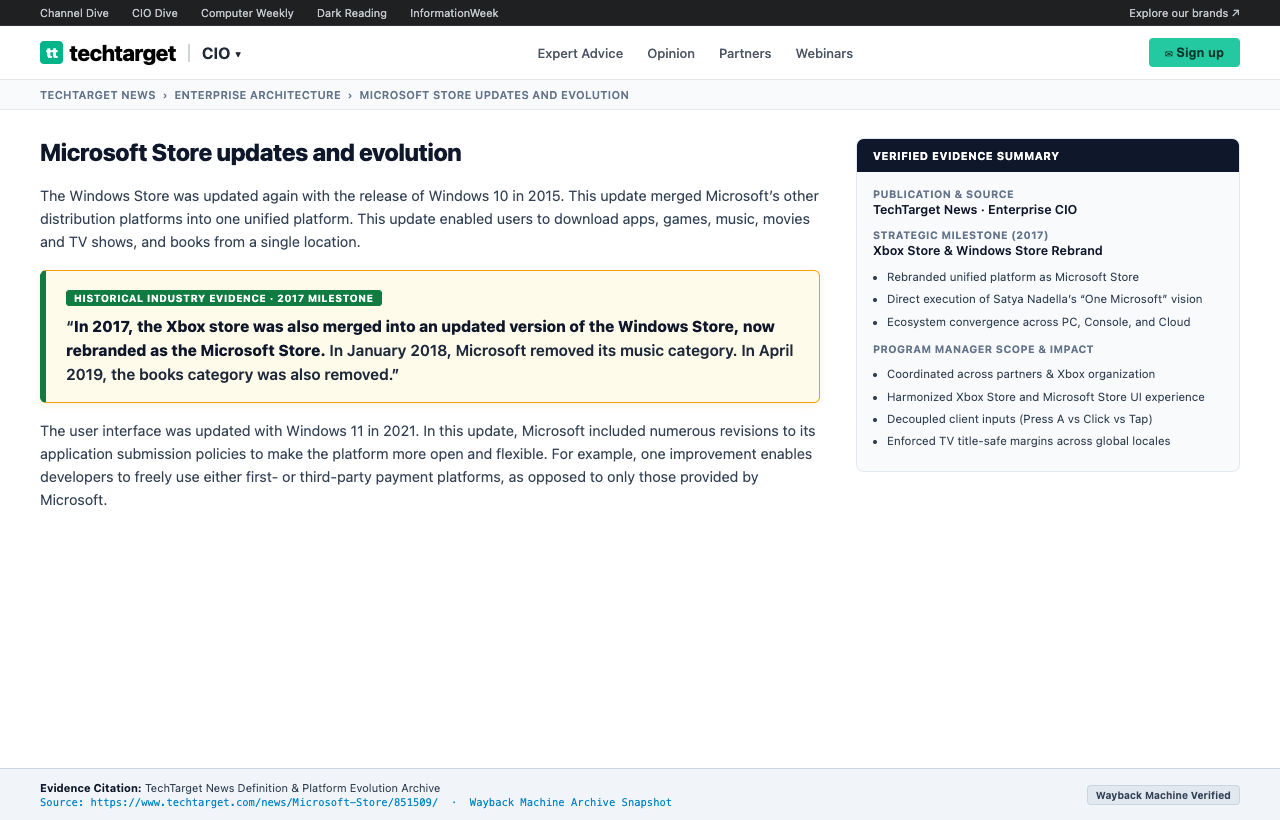
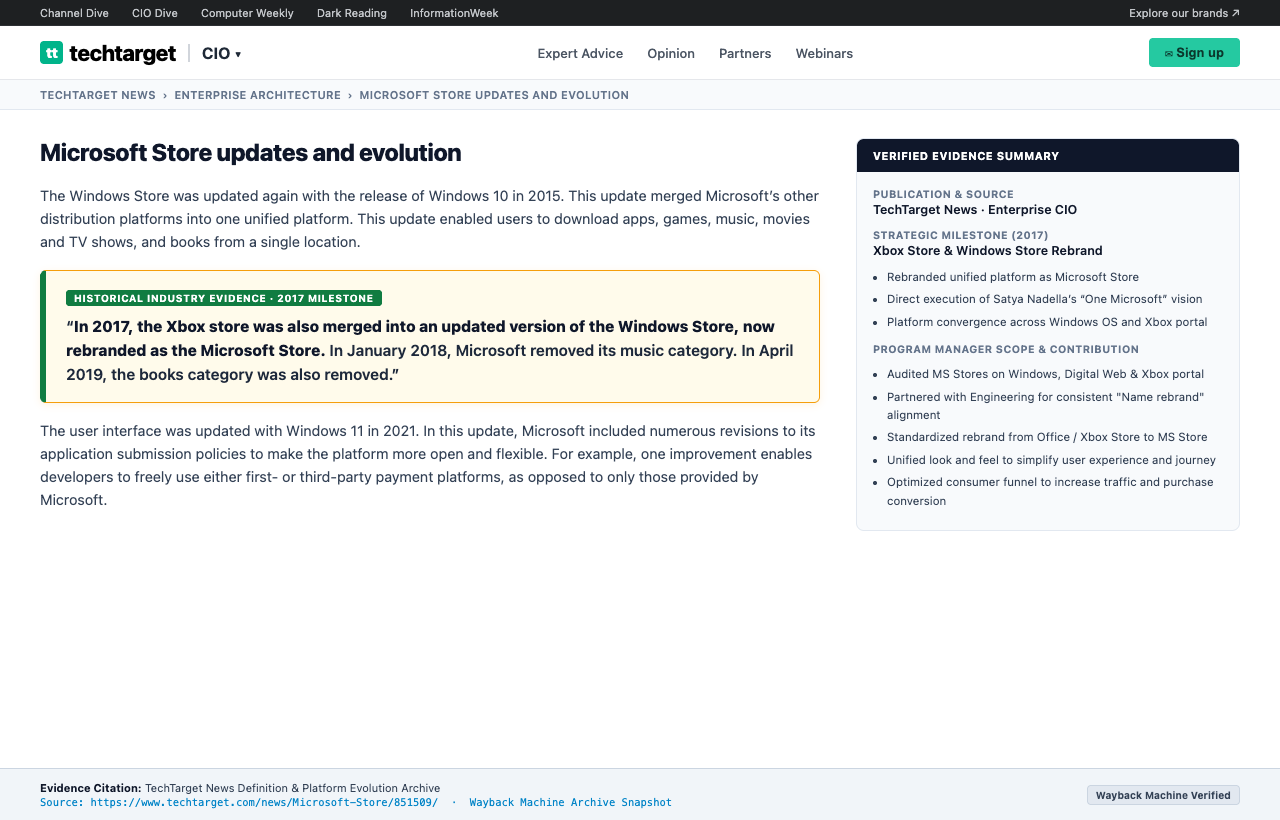
fix(career): Align Section 8 copy and evidence with verified cross-platform audit and name rebrand scope

Changed region(s): [[0.6875, 0.3659, 0.9375, 0.6402]]

diff --git a/frontend/src/data/career/en.js b/frontend/src/data/career/en.js
@@ -1910,7 +1910,7 @@ export const timelineItems = [
         linkLabel: 'Microsoft Store Retail Transformation Announcement',
       },
       {
-        text: 'One Microsoft Ecosystem Alignment & Xbox Store Rebrand: Aligned with Satya Nadella’s "One Microsoft" vision, coordinated as Program Manager across partner teams and the Xbox organization to align the Xbox Store experience and rebrand to the unified Microsoft Store. Governed cross-platform experience parity, decoupled input mechanics (resolving dynamically to console controller, PC mouse, or touch prompts across devices), and enforced TV title-safe layout margins across 38 global markets.',
+        text: 'One Microsoft Ecosystem Alignment & Xbox Store Rebrand: Aligned with Satya Nadella’s "One Microsoft" vision, coordinated as Program Manager across partner teams and the Xbox organization to align the Xbox Store experience and rebrand to the unified Microsoft Store. Conducted a cross-surface audit of Microsoft Stores across Windows OS, digital web, and the Xbox portal, partnering with Engineering to ensure consistent name rebrand alignment (from Office and Xbox Store to Microsoft Store) and maintain a unified look and feel that simplified the user experience, drove adoption, and optimized the consumer purchase journey.',
         url: 'https://www.techtarget.com/news/Microsoft-Store/851509/',
         linkLabel: 'TechTarget: Xbox & Microsoft Store Architecture',
       },
@@ -2312,11 +2312,11 @@ export const timelineItems = [
         {
           id: 'xbox-store-rebrand',
           title: '8. One Microsoft Vision: Xbox Store Integration & Rebrand',
-          badge: 'One Microsoft · Xbox Store Merger · Cross-Platform Experience Parity',
+          badge: 'One Microsoft · Xbox Store Merger · Cross-Platform Rebrand Alignment',
           defaultOpen: false,
           columns: 1,
           summary:
-            'Aligned with Satya Nadella’s "One Microsoft" enterprise vision, coordinated across cross-functional partner teams and the Xbox organization to align the Xbox Store experience and rebrand it to the unified Microsoft Store. Overcame critical cross-platform release divergence across Xbox console TV UI, Windows desktop, and mobile web storefronts: decoupled device input mechanics (resolving dynamically to "Press A", "Click", or "Tap" tokens), enforced surface-specific TV title-safe margins, and eliminated localization defects to achieve day-and-date launches across 38 global markets.',
+            'Aligned with Satya Nadella’s "One Microsoft" enterprise vision, coordinated across partner teams and the Xbox organization as Program Manager to align the Xbox Store experience and rebrand it to the unified Microsoft Store. Conducted a comprehensive audit of Microsoft Stores across Windows OS, digital web, and the Xbox portal, partnering with Engineering to ensure consistent name rebrand alignment (from Office and Xbox Store to Microsoft Store) and maintain a cohesive look and feel across platforms to simplify the user experience, increase customer adoption, and optimize the consumer purchase funnel.',
           links: [
             {
               label: 'TechTarget: Microsoft Store Evolution & Xbox Store Merger',
